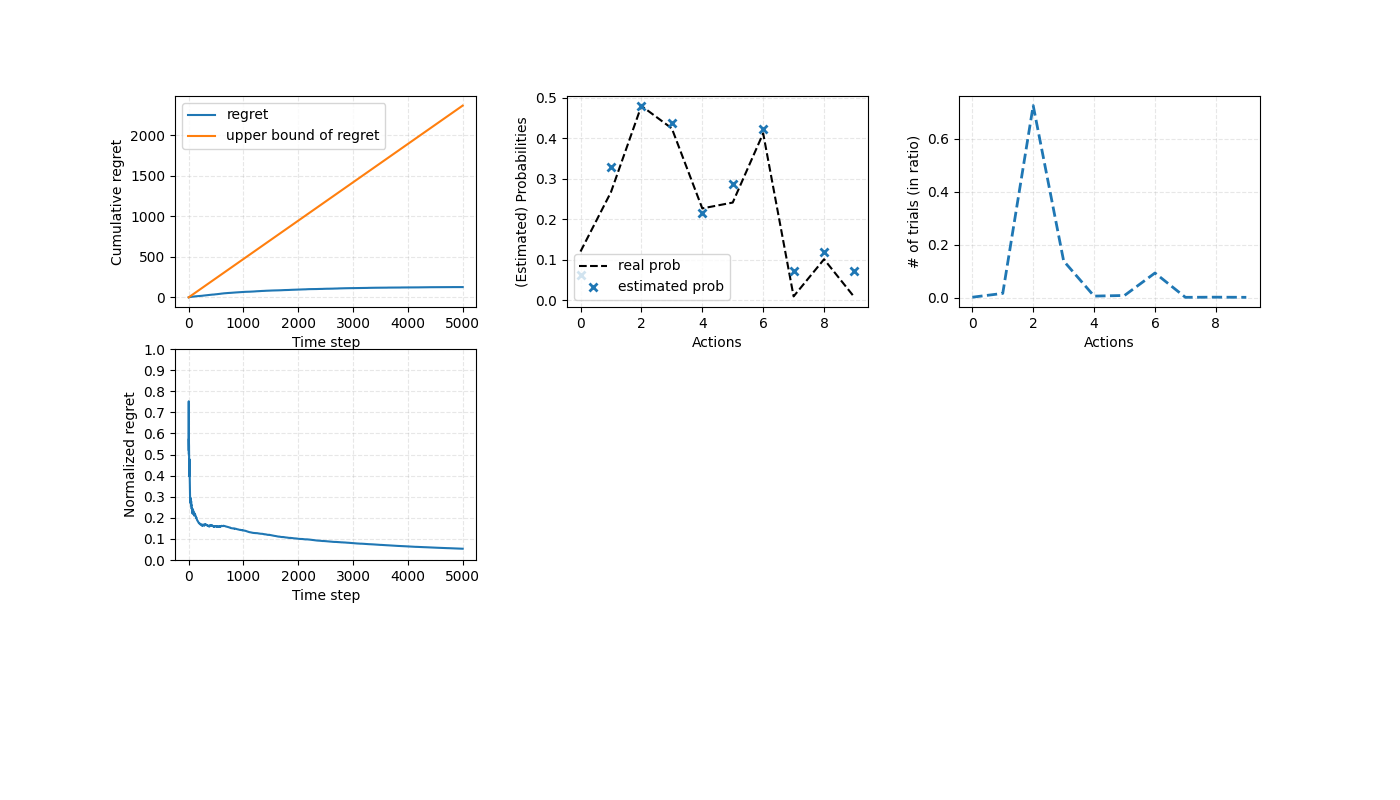
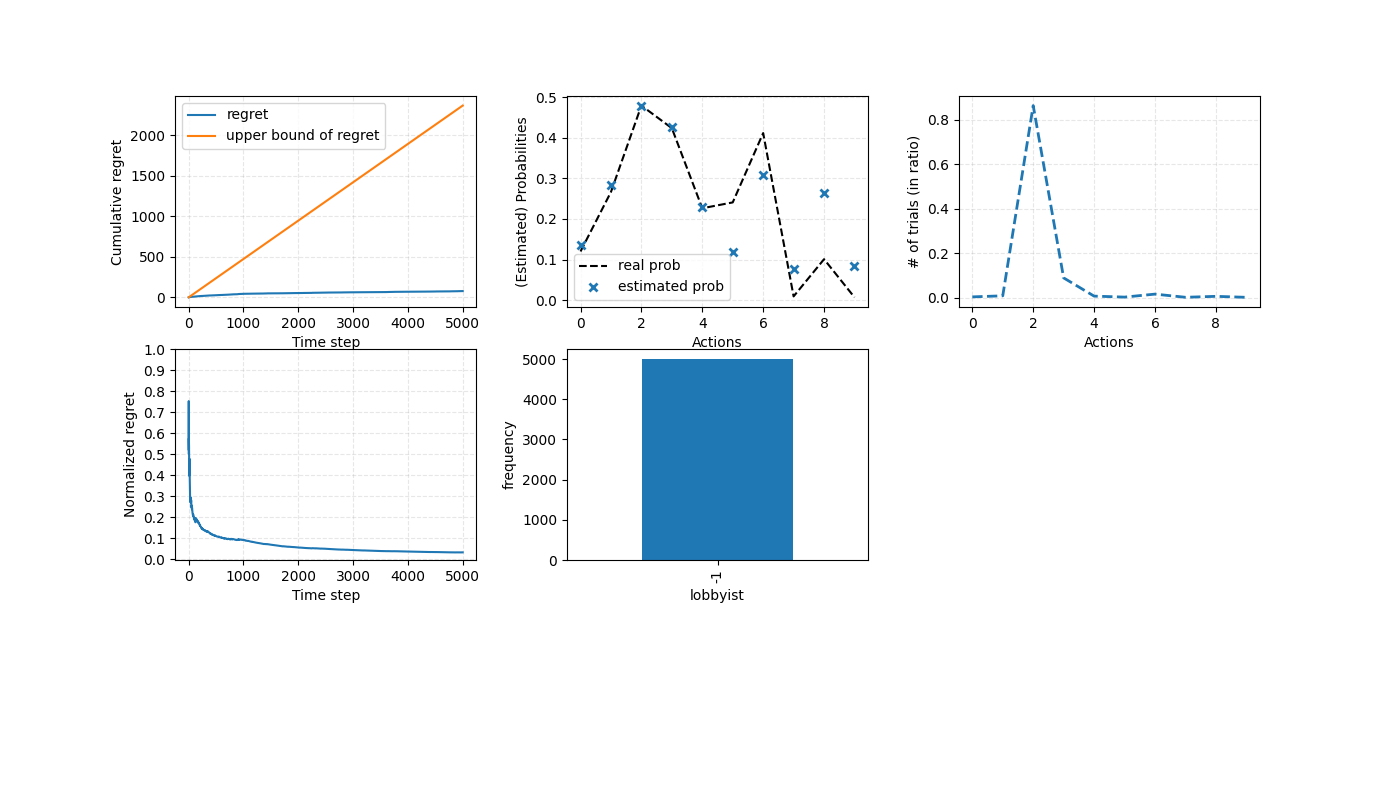
add histogram for selecting lobbyists

diff --git a/main.py b/main.py
@@ -3,6 +3,7 @@ import matplotlib  # noqa
 # matplotlib.use("Agg")  # noqa
 
 import matplotlib.pyplot as plt
+import pandas as pd
 import numpy as np
 
 from bandits import CategoricalBandit
@@ -23,7 +24,7 @@ def plot_results(bandit: CategoricalBandit, env: CategoricalBanditEnv, show=Fals
     ax3 = fig.add_subplot(233)
 
     ax4 = fig.add_subplot(234)
-    # ax5 = fig.add_subplot(235)
+    ax5 = fig.add_subplot(235)
     # ax6 = fig.add_subplot(236)
 
     # Sub.fig 1: Regrets in time.
@@ -100,6 +101,14 @@ def plot_results(bandit: CategoricalBandit, env: CategoricalBanditEnv, show=Fals
     ax3.set_ylabel("# of trials (in ratio)")
     ax3.grid("k", ls="--", alpha=0.3)
     figname = "results_K{}_C{}_N{}.png".format(env.k, env.c, env.n)
+
+    # Sub.fig. 5: Ratio between using the self belief and lobbyists' belief.
+    df = pd.DataFrame({"freq": bandit.hires})
+    df["freq"].value_counts().plot(
+        ax=ax5, kind="bar", xlabel="lobbyist", ylabel="frequency"
+    )  # Save & Show plot
+
+    # Save & Show plot
     plt.savefig(figname)
     if show:
         plt.show()

diff --git a/exp_log/221130.md b/exp_log/221130.md
@@ -1,0 +1,4 @@
+1. Succesfully implemented lobbyist 
+2. Now we have a lobbyist which can help them to collaborately update their new belief 
+3. What's the difference between simply having * L number of times?
+4. 
